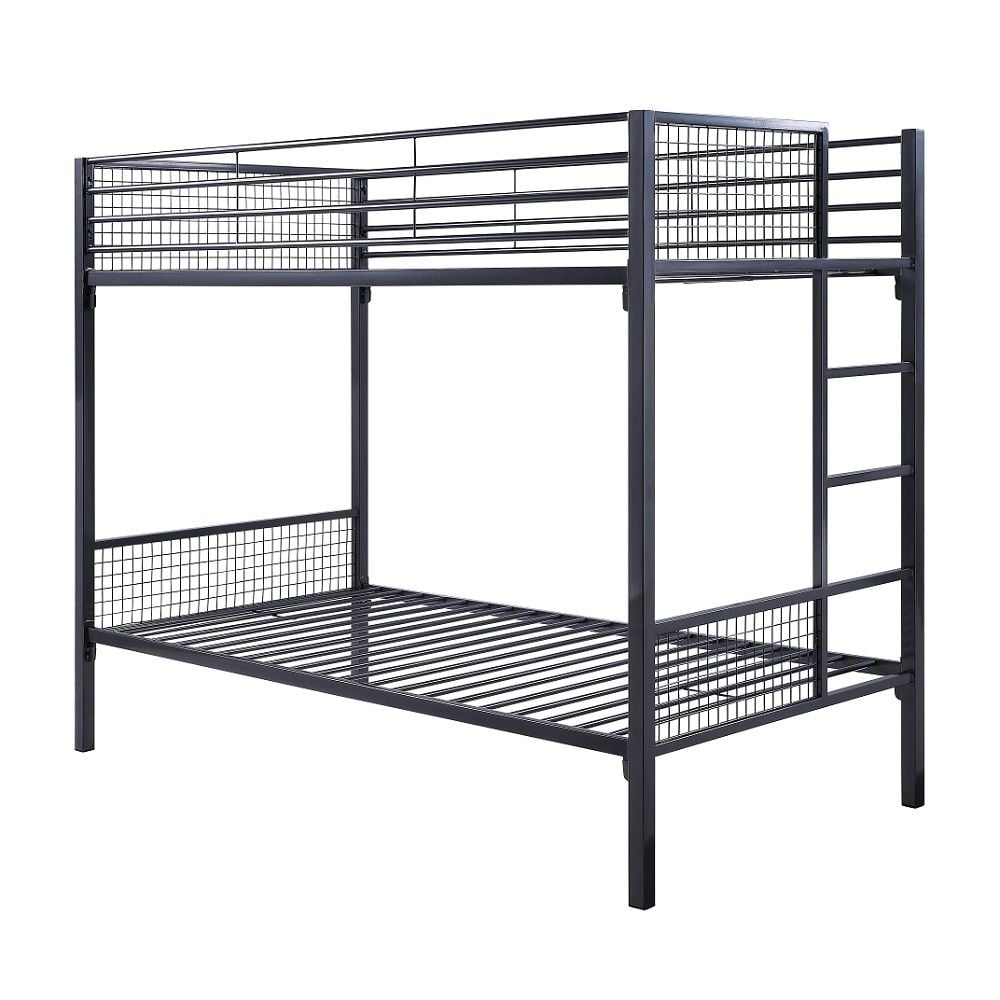
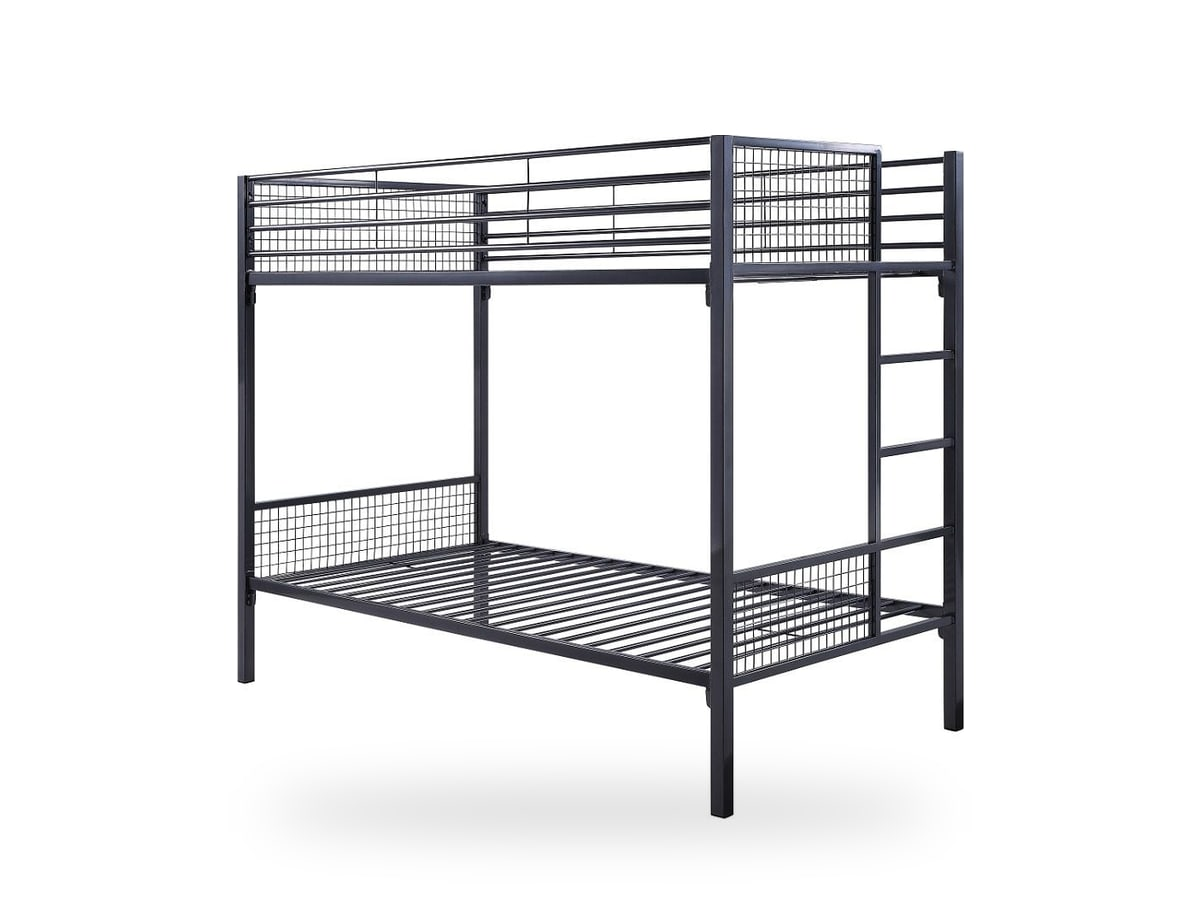
Matching product photos and gentle scroll motion
Photos (see public/products/items/SOURCES.md):
- 29 product photos are now matching cutouts: trimmed and re-framed on
  the same 1200x900 white canvas at the same scale, with a soft ground
  shadow; the site multiplies them onto its studio-grey wells. Seven of
  them had their room background removed locally first.
- 19 photos that can't be cut out cleanly (product in a room, cropped
  at the frame edge, or a close-up) are flagged imageFit "cover" and now
  fill their card edge to edge instead of floating as small rectangles.
- Photos zoom gently on hover (cards, room parts list, sector cards).

Motion:
- Cards and section headers ease up as they scroll into view, using
  CSS scroll-driven animations (no JavaScript). Browsers without support
  and visitors who prefer reduced motion see content in place. The
  animation ends on translate: none so it never traps the fixed product
  viewer or fights hover lifts.

Changed region(s): [[0.062, 0.0933, 0.93, 0.9333]]

diff --git a/src/components/ProductConfigurator.tsx b/src/components/ProductConfigurator.tsx
@@ -48,7 +48,7 @@ export function ProductConfigurator({ items }: { items: InspectorItem[] }) {
 
   return (
     <section className="mx-auto w-full max-w-7xl px-4 py-16 sm:px-8 sm:py-24">
-      <header className="section-rule grid gap-4 pt-6 md:grid-cols-[1fr_minmax(0,26rem)] md:items-end md:gap-6">
+      <header className="section-rule reveal grid gap-4 pt-6 md:grid-cols-[1fr_minmax(0,26rem)] md:items-end md:gap-6">
         <h2 className="type-display text-4xl text-ink sm:text-5xl lg:text-6xl">
           Inspect every unit before it ships.
         </h2>
@@ -58,7 +58,7 @@ export function ProductConfigurator({ items }: { items: InspectorItem[] }) {
         </p>
       </header>
 
-      <div className="mt-10 grid gap-4 lg:grid-cols-[1fr_360px] lg:gap-6">
+      <div className="reveal mt-10 grid gap-4 lg:grid-cols-[1fr_360px] lg:gap-6">
         <div role="region" aria-label={`${product.name} photo`} className="panel relative h-[380px] overflow-hidden sm:h-[540px]">
           <PhotoStage
             src={product.image}
@@ -127,12 +127,15 @@ export function ProductConfigurator({ items }: { items: InspectorItem[] }) {
                       aria-label={`${item.category.label}: ${item.product.name}`}
                       title={`${item.category.label}: ${item.product.name}`}
                       className={cn(
-                        "relative block aspect-square w-full border bg-studio transition-colors",
+                        "relative block aspect-square w-full overflow-hidden border bg-studio transition-colors",
                         selected ? "border-ink" : "border-rule hover:border-ink"
                       )}
                       style={selected ? { boxShadow: "inset 0 -3px 0 var(--color-accent)" } : undefined}
                     >
-                      <Image src={item.product.image} alt="" fill sizes="80px" className="object-contain p-1.5 mix-blend-multiply" />
+                      <Image src={item.product.image} alt="" fill
+                        sizes="80px"
+                        className={item.product.imageFit === "cover" ? "object-cover" : "object-contain p-1.5 mix-blend-multiply"}
+                      />
                     </button>
                   </li>
                 );

diff --git a/src/components/HeroCinematic.tsx b/src/components/HeroCinematic.tsx
@@ -300,7 +300,7 @@ export function HeroCinematic({
             {roomItems.map(({ product }, i) => {
               const highlighted = hoveredSlug === product.slug;
               return (
-                <li key={product.slug} className="cell lift">
+                <li key={product.slug} className="cell lift reveal">
                   <button
                     type="button"
                     onClick={openFromButton(product)}
@@ -309,17 +309,21 @@ export function HeroCinematic({
                     onFocus={() => setHoveredSlug(product.slug)}
                     onBlur={() => setHoveredSlug(null)}
                     aria-label={`${pad(i + 1)}: view ${product.name} up close`}
-                    className="flex h-full w-full flex-col text-left"
+                    className="group flex h-full w-full flex-col text-left"
                     style={highlighted ? { boxShadow: "inset 0 -3px 0 var(--color-accent)" } : undefined}
                   >
                     {/* The real product, so the room's simple shapes always have a photo beside them. */}
-                    <span className="relative block aspect-[4/3] w-full border-b border-rule bg-studio">
+                    <span className="relative block aspect-[4/3] w-full overflow-hidden border-b border-rule bg-studio">
                       <Image
                         src={product.image}
                         alt=""
                         fill
                         sizes="(min-width: 1280px) 16vw, (min-width: 1024px) 33vw, (min-width: 640px) 50vw, 100vw"
-                        className="object-contain p-3 mix-blend-multiply"
+                        className={
+                          product.imageFit === "cover"
+                            ? "object-cover transition-transform duration-500 group-hover:scale-[1.05]"
+                            : "object-contain p-3 mix-blend-multiply transition-transform duration-500 group-hover:scale-[1.05]"
+                        }
                       />
                     </span>
                     <span className="flex items-start gap-3 px-3 py-3">

diff --git a/src/components/NooksguardSection.tsx b/src/components/NooksguardSection.tsx
@@ -23,7 +23,7 @@ export function NooksguardSection() {
       aria-labelledby="nooksguard-title"
       className="mx-auto w-full max-w-7xl px-4 py-16 sm:px-8 sm:py-24"
     >
-      <div className="section-rule grid gap-10 pt-8 lg:grid-cols-[minmax(0,7fr)_minmax(0,5fr)] lg:items-center lg:gap-12">
+      <div className="section-rule reveal grid gap-10 pt-8 lg:grid-cols-[minmax(0,7fr)_minmax(0,5fr)] lg:items-center lg:gap-12">
         {/* The logo is the section title; its alt text gives the heading its name. */}
         <h2 id="nooksguard-title" className="m-0">
           <Link href="/security" className="lift frame-marks block">
@@ -86,7 +86,7 @@ export function NooksguardSection() {
             </>
           );
           return isLive ? (
-            <li key={category.slug} className="cell lift">
+            <li key={category.slug} className="cell lift reveal">
               <Link
                 href={`/security/${category.slug}`}
                 className="group flex h-full min-h-16 items-start gap-3 p-4"
@@ -99,7 +99,7 @@ export function NooksguardSection() {
               </Link>
             </li>
           ) : (
-            <li key={category.slug} className="cell flex min-h-16 items-start gap-3 p-4">
+            <li key={category.slug} className="cell reveal flex min-h-16 items-start gap-3 p-4">
               {body}
               <span className="tag shrink-0 border-warn text-warn">Coming soon</span>
             </li>

diff --git a/src/lib/categories.ts b/src/lib/categories.ts
@@ -32,6 +32,12 @@ export interface Product {
    * When absent the viewer renders the procedural `shape` instead.
    */
   modelUrl?: string;
+  /**
+   * "cover" for scene photos (product shown in a room or close-up, no clean
+   * cutout possible): cards fill the frame with them edge to edge. Default is a
+   * cutout on white, shown whole on the studio-grey well.
+   */
+  imageFit?: "cover";
 }
 
 export interface Category {
@@ -41,6 +47,30 @@ export interface Category {
   description: string;
   products: Product[];
 }
+
+// Photos that stay as full-frame scenes (see public/products/items/SOURCES.md);
+// every other product photo is a white-background cutout with matching framing.
+const SCENE_PHOTOS = new Set([
+  "dinnerware-set",
+  "height-adjustable-desk",
+  "lamp-clearance-bundle",
+  "lateral-file-cabinet",
+  "mattress-protector",
+  "move-in-essentials-kit",
+  "security-door-lockbox",
+  "twin-linen-set",
+  "washer-dryer-combo",
+  "window-security-film",
+  "queen-linen-set",
+  "accent-chair",
+  "keyless-entry-lock",
+  "trash-can",
+  "starter-room-package",
+  "foldable-storage-bench",
+  "reception-bench",
+  "coffee-table",
+  "overstock-dining-chair",
+]);
 
 function product(
   slug: string,
@@ -57,6 +87,7 @@ function product(
     price,
     description,
     image: `/products/items/${slug}.jpg`,
+    ...(SCENE_PHOTOS.has(slug) ? { imageFit: "cover" as const } : {}),
     shape,
     accentHex,
     shapeVariant,

diff --git a/src/components/ProductGrid.tsx b/src/components/ProductGrid.tsx
@@ -37,7 +37,7 @@ export function ProductGrid({ products }: { products: Product[] }) {
     <>
       <ul className="catalog-grid grid-cols-1 sm:grid-cols-2 lg:grid-cols-4">
         {products.map((product) => (
-          <li key={product.slug} data-card className="cell lift flex flex-col">
+          <li key={product.slug} data-card className="cell lift reveal flex flex-col">
             <button
               type="button"
               data-media
@@ -50,7 +50,11 @@ export function ProductGrid({ products }: { products: Product[] }) {
                 alt=""
                 fill
                 sizes="(min-width: 1024px) 25vw, (min-width: 640px) 50vw, 100vw"
-                className="object-contain p-5 mix-blend-multiply transition-transform duration-300 group-hover:scale-[1.03]"
+                className={
+                  product.imageFit === "cover"
+                    ? "object-cover transition-transform duration-500 group-hover:scale-[1.04]"
+                    : "object-contain p-5 mix-blend-multiply transition-transform duration-500 group-hover:scale-[1.04]"
+                }
               />
               <span className="tag absolute left-3 top-3 gap-1 border-ink">
                 {product.modelUrl ? (

diff --git a/src/components/SectorShowcase.tsx b/src/components/SectorShowcase.tsx
@@ -106,7 +106,7 @@ export function SectorShowcase() {
 
   return (
     <section className="mx-auto w-full max-w-7xl px-4 py-16 sm:px-8 sm:py-24">
-      <header className="section-rule flex flex-col gap-3 pt-6">
+      <header className="section-rule reveal flex flex-col gap-3 pt-6">
         <span className="type-label">Who We Serve</span>
         <h2 className="type-display text-4xl text-ink sm:text-5xl lg:text-6xl">
           Two sides of the same supply chain.
@@ -180,14 +180,14 @@ export function SectorShowcase() {
 function SectorCardItem({ card }: { card: SectorCard }) {
   const Icon = card.icon;
   return (
-    <li className="cell flex flex-col">
+    <li className="cell reveal group flex flex-col">
       <div className="relative aspect-[16/9] w-full overflow-hidden border-b border-rule bg-studio sm:aspect-[4/3]">
         <Image
           src={card.image}
           alt=""
           fill
           sizes="(min-width: 1024px) 25vw, (min-width: 640px) 50vw, 100vw"
-          className="object-cover"
+          className="object-cover transition-transform duration-500 ease-out group-hover:scale-[1.04]"
         />
       </div>
       <div className="flex flex-col gap-2 p-5">

diff --git a/src/components/room/RoomScene.tsx b/src/components/room/RoomScene.tsx
@@ -286,8 +286,14 @@ function Piece({
             </button>
             {highlighted && (
               <div className="pointer-events-none absolute bottom-full mb-2 w-44 border border-ink bg-well text-left">
-                <div className="relative aspect-[4/3] w-full border-b border-rule bg-studio">
-                  <Image src={product.image} alt="" fill sizes="176px" className="object-contain p-2 mix-blend-multiply" />
+                <div className="relative aspect-[4/3] w-full overflow-hidden border-b border-rule bg-studio">
+                  <Image
+                    src={product.image}
+                    alt=""
+                    fill
+                    sizes="176px"
+                    className={product.imageFit === "cover" ? "object-cover" : "object-contain p-2 mix-blend-multiply"}
+                  />
                 </div>
                 <div className="px-2.5 py-1.5">
                   <p className="text-xs font-semibold leading-tight text-ink">{product.name}</p>

diff --git a/src/app/globals.css b/src/app/globals.css
@@ -415,6 +415,33 @@ body {
   }
 }
 
+/* ---------- Gentle motion: content eases up as it scrolls into view ----------
+   Pure CSS scroll-driven animation: no JavaScript, and browsers without
+   `animation-timeline` (or visitors who prefer reduced motion) simply see the
+   content in place. Animates `translate`/`opacity` only and ends on
+   `translate: none`, so it never fights hover transforms and never leaves a
+   transform behind (a leftover transform would trap fixed-position modals). */
+@keyframes reveal-up {
+  from {
+    opacity: 0;
+    translate: 0 28px;
+  }
+  to {
+    opacity: 1;
+    translate: none;
+  }
+}
+
+@supports (animation-timeline: view()) {
+  @media (prefers-reduced-motion: no-preference) {
+    .reveal {
+      animation: reveal-up linear both;
+      animation-timeline: view();
+      animation-range: entry 0% entry 220px;
+    }
+  }
+}
+
 @keyframes marquee {
   to {
     transform: translateX(-50%);

diff --git a/src/app/(site)/security/[category]/page.tsx b/src/app/(site)/security/[category]/page.tsx
@@ -92,7 +92,7 @@ async function SecurityCategoryContent({ params }: CategoryPageProps) {
                 {tier.description && <p className="mt-2 max-w-[62ch] text-sm text-ink-2">{tier.description}</p>}
                 <ul className="catalog-grid mt-6 grid-cols-1 sm:grid-cols-2 lg:grid-cols-4">
                   {tier.products.map((product) => (
-                    <li key={product.slug} className="cell flex flex-col">
+                    <li key={product.slug} className="cell reveal flex flex-col">
                       {!product.image && tierHasImages && (
                         <div className="flex aspect-[4/3] w-full items-center justify-center border-b border-rule bg-mist">
                           <span className="type-label">Photo pending</span>

diff --git a/src/app/(site)/security/page.tsx b/src/app/(site)/security/page.tsx
@@ -78,12 +78,12 @@ export default function SecurityIndexPage() {
             <Link
               key={category.slug}
               href={`/security/${category.slug}`}
-              className="cell lift group flex min-h-[44px] flex-col gap-2 p-5"
+              className="cell lift reveal group flex min-h-[44px] flex-col gap-2 p-5"
             >
               {content}
             </Link>
           ) : (
-            <div key={category.slug} className="cell flex flex-col gap-2 p-5">
+            <div key={category.slug} className="cell reveal flex flex-col gap-2 p-5">
               {content}
             </div>
           );

diff --git a/src/components/QuoteCalculator.tsx b/src/components/QuoteCalculator.tsx
@@ -96,7 +96,7 @@ export function QuoteCalculator({ catalog = [] }: QuoteCalculatorProps) {
 
   return (
     <section className="mx-auto w-full max-w-7xl px-4 py-16 sm:px-8 sm:py-24">
-      <header className="section-rule grid gap-6 pt-6 md:grid-cols-[1fr_minmax(0,26rem)] md:items-end">
+      <header className="section-rule reveal grid gap-6 pt-6 md:grid-cols-[1fr_minmax(0,26rem)] md:items-end">
         <h2 className="type-display text-4xl text-ink sm:text-5xl lg:text-6xl">
           Spec a facility, get a number in seconds.
         </h2>

diff --git a/src/app/(site)/categories/page.tsx b/src/app/(site)/categories/page.tsx
@@ -34,7 +34,7 @@ export default async function CategoriesIndexPage() {
           <Link
             key={category.slug}
             href={`/categories/${category.slug}`}
-            className="cell lift group flex flex-col"
+            className="cell lift reveal group flex flex-col"
           >
             <div className="relative aspect-[16/10] w-full overflow-hidden bg-mist">
               <Image
